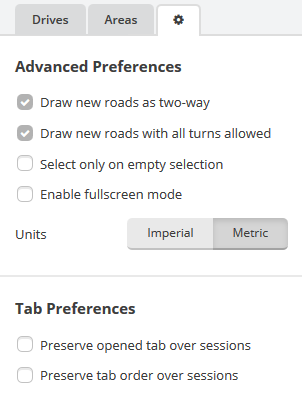
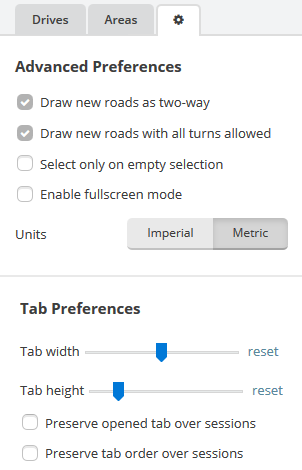
Updated documentation for v1.0

diff --git a/README.md b/README.md
@@ -33,11 +33,16 @@ GreaseMonkey and TamperMonkey will occasionally check for new versions of these 
 
 The script adds additional options to the preferences tab. These options allow you to enable or disable the script's features:
 
+- 'Tab width & Tab height': adjust the width and height of all tabs so they take up less/more space than before.
 - 'Hide editing permissions paragraph': remove the paragraph saying how far you can edit as this isn't really useful information for an advanced editor.
 - 'Preserve opened tab over sessions': have the script reopen the tab you had selected during the last time you used the WME.
-- 'Preserve tab order over sessions': have the script rearrange the tabs to preserve the previous order when loading the WME. New tabs are added to the back. When selecting this option, an additional menu appears that allows you to rearrange the tabs to your liking.
+- 'Preserve tab order over sessions': have the script rearrange the tabs to preserve the previous order when loading the WME. New tabs are added to the back. When selecting this option, an additional menu appears that allows you to manage the tabs further in detail.
 
 ![Tab Preferences tab rearrangement](https://tomputtemans.com/waze-scripts/images/WME-TabPreferences-tab-rearrange.png)
+
+When the tab order is preserved over sessions it also becomes possible to hide tabs or replace the tab name with an icon.
+
+![Tab Preferences tab management](https://tomputtemans.com/waze-scripts/images/WME-TabPreferences-tab-management.png)
 
 ## Feedback and suggestions
 
